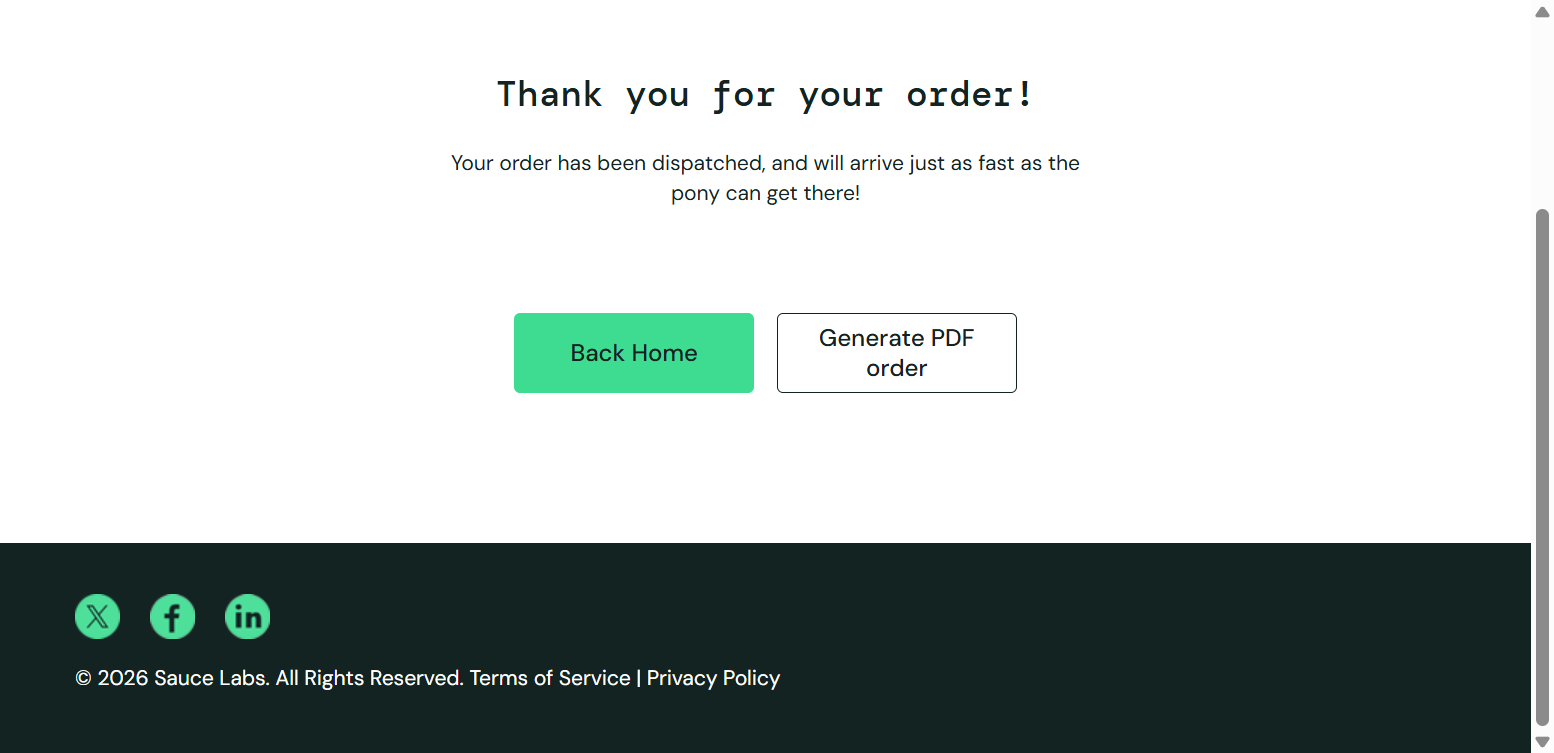
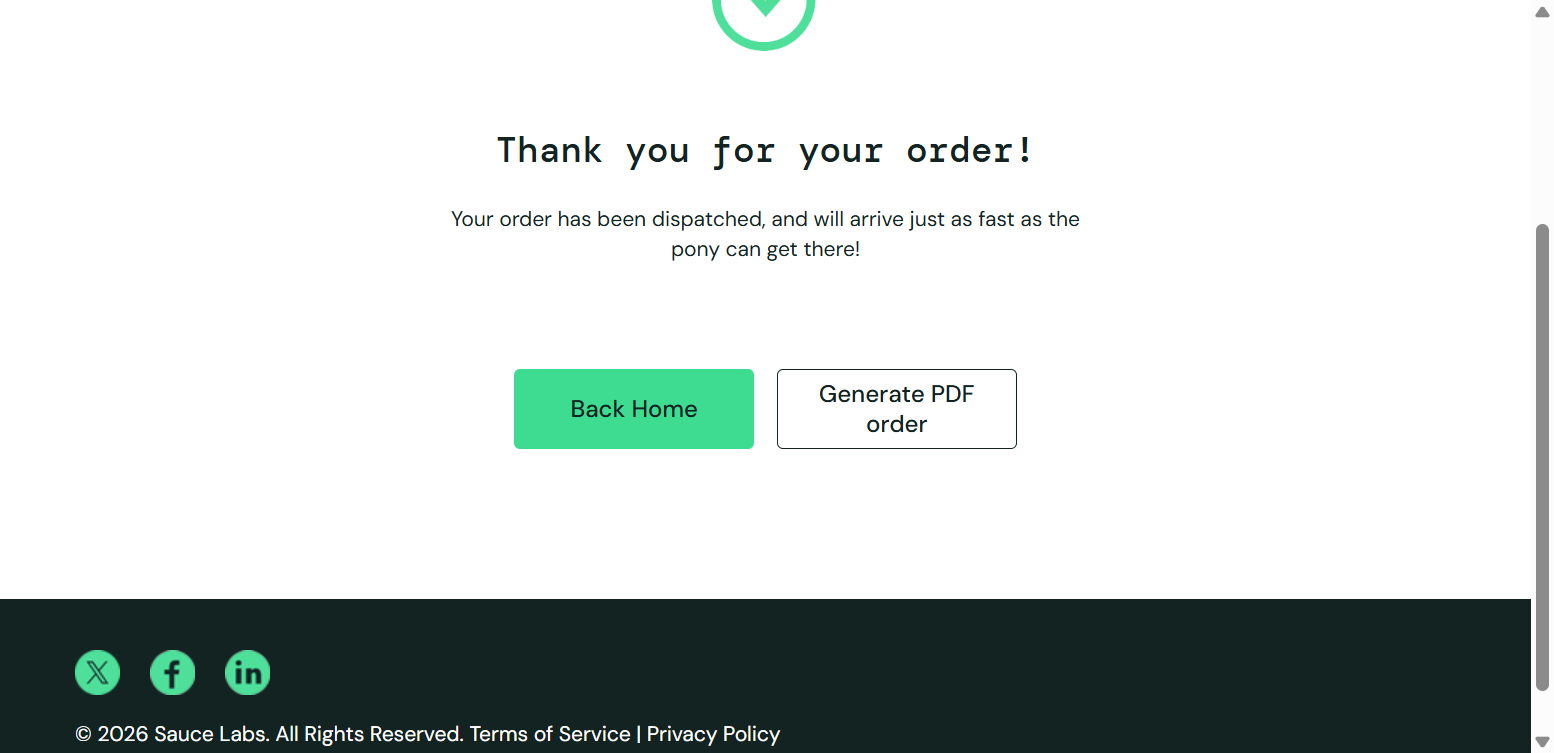
Add positive and negative login tests with screenshot evidence

diff --git a/tests/test_login_negative.py b/tests/test_login_negative.py
@@ -1,0 +1,77 @@
+
+import pytest
+from pathlib import Path
+from selenium import webdriver
+from pages.login_page import LoginPage
+from selenium.webdriver.common.by import By
+
+
+# Screenshot directory
+SCREENSHOT_DIR = Path(__file__).resolve().parents[1] / "screenshots"
+SCREENSHOT_DIR.mkdir(exist_ok=True)
+
+
+@pytest.fixture
+def driver():
+    driver = webdriver.Chrome()
+    driver.maximize_window()
+    driver.get("https://www.saucedemo.com/")
+
+    yield driver
+
+    driver.quit()
+
+
+@pytest.mark.parametrize(
+    "username, password, expected_error",
+    [
+        pytest.param(
+            "", "secret_sauce",
+            "Epic sadface: Username is required",
+            id="empty_username"
+        ),
+        pytest.param(
+            "standard_user", "",
+            "Epic sadface: Password is required",
+            id="empty_password"
+        ),
+        pytest.param(
+            "wrong_user", "secret_sauce",
+            "Epic sadface: Username and password do not match any user in this service",
+            id="invalid_username"
+        ),
+        pytest.param(
+            "standard_user", "wrong_password",
+            "Epic sadface: Username and password do not match any user in this service",
+            id="invalid_password"
+        ),
+        pytest.param(
+            "wrong_user", "wrong_password",
+            "Epic sadface: Username and password do not match any user in this service",
+            id="invalid_credentials"
+        ),
+        pytest.param(
+            "locked_out_user", "secret_sauce",
+            "Epic sadface: Sorry, this user has been locked out.",
+            id="locked_out_user"
+        )
+    ]
+)
+def test_login_negative(driver, username, password, expected_error, request):
+    login_page = LoginPage(driver)
+
+    login_page.login(username, password)
+
+    # Capture screenshot evidence
+    case_name = request.node.callspec.id
+    screenshot_path = SCREENSHOT_DIR / f"negative_login_{case_name}.png"
+
+    driver.save_screenshot(str(screenshot_path))
+
+    # Validate error message visibility
+    error_element = driver.find_element(
+        By.CSS_SELECTOR, "[data-test='error']"
+    )
+
+    assert error_element.is_displayed()
+    assert error_element.text == expected_error

diff --git a/tests/test_login_positive.py b/tests/test_login_positive.py
@@ -1,0 +1,28 @@
+
+import pytest
+from selenium import webdriver
+from pages.login_page import LoginPage
+from pathlib import Path
+
+SCREENSHOT_DIR = Path(__file__).resolve().parents[1] / "screenshots"
+SCREENSHOT_DIR.mkdir(exist_ok=True)
+
+@pytest.fixture
+def driver():
+    driver = webdriver.Chrome()
+    driver.maximize_window()
+    driver.get("https://www.saucedemo.com/")
+
+    yield driver
+
+    driver.quit()
+
+
+def test_login_success(driver):
+    login_page = LoginPage(driver)
+
+    login_page.login("standard_user", "secret_sauce")
+    driver.save_screenshot(
+    str(SCREENSHOT_DIR / "positive_login_success.png")
+)
+    assert "inventory.html" in driver.current_url
